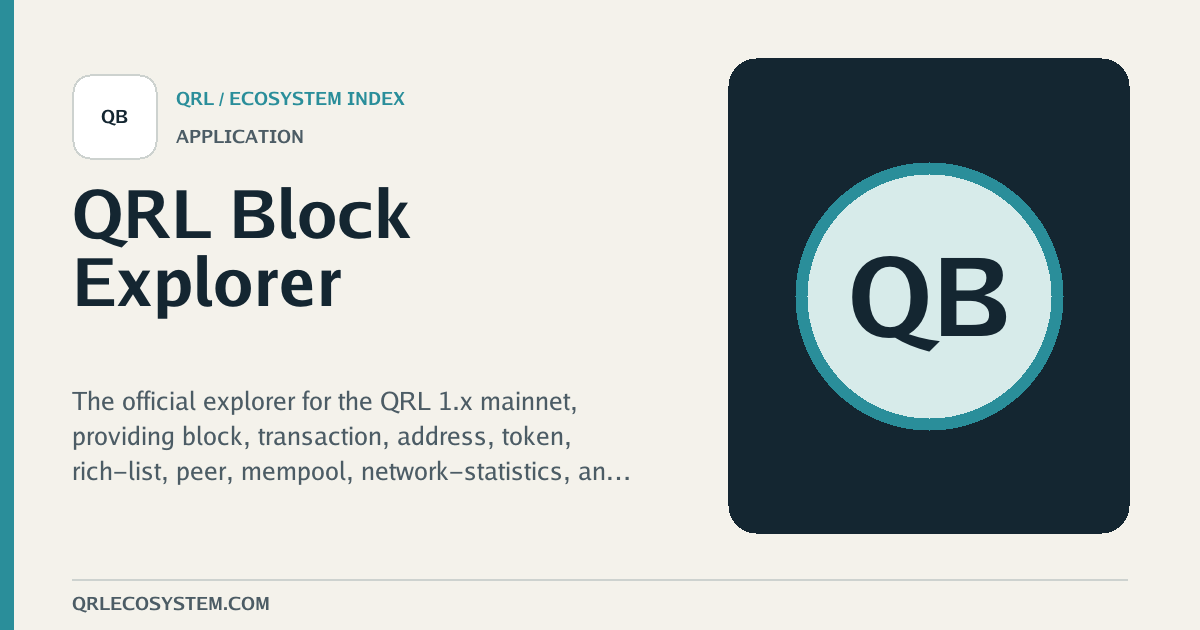
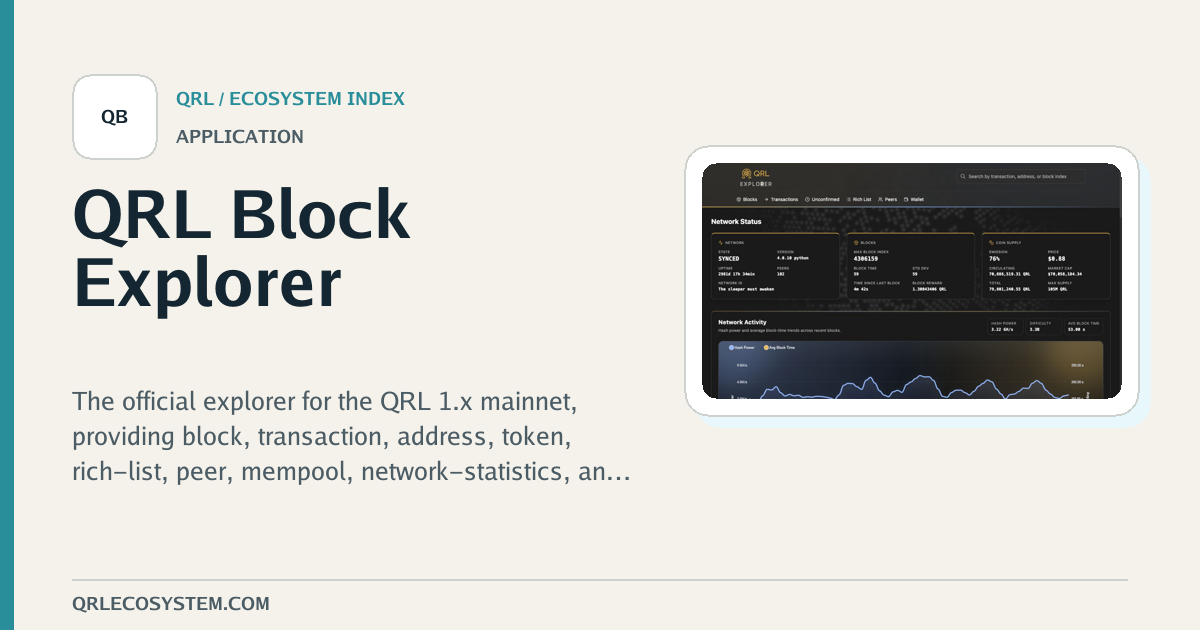
Add Offline Wallet, Explorer, + Token Gen Screenshots

Changed region(s): [[0.5858, 0.0905, 0.9558, 0.8746]]

diff --git a/website/assets/scss/main.scss b/website/assets/scss/main.scss
@@ -452,7 +452,7 @@ main {
 .project-spotlight-media {
     display: grid;
     overflow: hidden;
-    aspect-ratio: 8 / 5;
+    aspect-ratio: 16 / 9;
     place-items: center;
     border-bottom: 1px solid var(--line);
     background: var(--surface-muted);

diff --git a/website/content/projects/active/qrl-offline-wallet-generator.md b/website/content/projects/active/qrl-offline-wallet-generator.md
@@ -8,7 +8,7 @@ capabilities:
     - key-management
 categories:
     - security-custody-account-management
-data_updated_at: "2026-08-17"
+data_updated_at: "2026-08-24"
 description: An official single-file QRL 1.x wallet generator designed for air-gapped use, with locally generated XMSS keys, encrypted or unencrypted JSON export, printable output, checksums, and build attestations.
 display_status: Stable · Mainnet
 features:
@@ -16,6 +16,13 @@ features:
     - Local XMSS key generation with no network connection required
     - Encrypted JSON, unencrypted JSON, print, and PDF export
     - Published SHA-256 checksums and GitHub build attestations
+gallery:
+    - type: image
+      path: qrl-offline-wallet-generator/generator-home.jpg
+      caption: Wallet generator start screen with hash-function and XMSS tree-height options plus existing-wallet regeneration.
+    - type: image
+      path: qrl-offline-wallet-generator/offline-documentation.jpg
+      caption: Offline-use documentation covering release verification, configuration, generation, and wallet output.
 id: qrl-offline-wallet-generator
 keywords:
     - wallet

diff --git a/website/content/projects/active/qrl-token-generator.md b/website/content/projects/active/qrl-token-generator.md
@@ -8,7 +8,7 @@ capabilities:
     - deployment
 categories:
     - assets-tokenization
-data_updated_at: "2026-08-17"
+data_updated_at: "2026-08-24"
 description: A browser application for deploying configurable fungible tokens on the QRL 2.0 testnet without writing code, including supply, decimals, minting, burning, ownership, recipient, wallet-cap, and transaction-limit options.
 display_status: Beta · Testnet
 features:
@@ -16,6 +16,13 @@ features:
     - Configurable token name, symbol, supply, and decimals
     - Optional minting, burning, ownership, and recipient controls
     - Optional maximum wallet holdings and transaction limits
+gallery:
+    - type: image
+      path: qrl-token-generator/create-token-form.jpg
+      caption: Configured token creation form showing name, symbol, initial supply, and decimal settings.
+    - type: image
+      path: qrl-token-generator/token-options.jpg
+      caption: Token options for minting, burning, recipient, owner, wallet-cap, and transaction-limit controls.
 id: qrl-token-generator
 keywords:
     - token-generator

diff --git a/website/content/projects/active/qrl-block-explorer.md b/website/content/projects/active/qrl-block-explorer.md
@@ -9,7 +9,7 @@ capabilities:
 categories:
     - network-operations
     - assets-tokenization
-data_updated_at: "2026-08-17"
+data_updated_at: "2026-08-24"
 description: The official explorer for the QRL 1.x mainnet, providing block, transaction, address, token, rich-list, peer, mempool, network-statistics, and JSON API views backed by a connected QRL node.
 display_status: Stable · Mainnet
 features:
@@ -17,6 +17,13 @@ features:
     - Network status, peers, rich list, and mining statistics
     - Public explorer API for application integrations
     - Live QRL 1.x mainnet data
+gallery:
+    - type: image
+      path: qrl-block-explorer/network-overview.jpg
+      caption: Network overview showing sync status, block metrics, supply statistics, and recent hash-power activity.
+    - type: image
+      path: qrl-block-explorer/latest-blocks.jpg
+      caption: Latest-blocks view showing pagination and recent block height, transaction, reward, interval, and miner details.
 id: qrl-block-explorer
 keywords:
     - explorer
